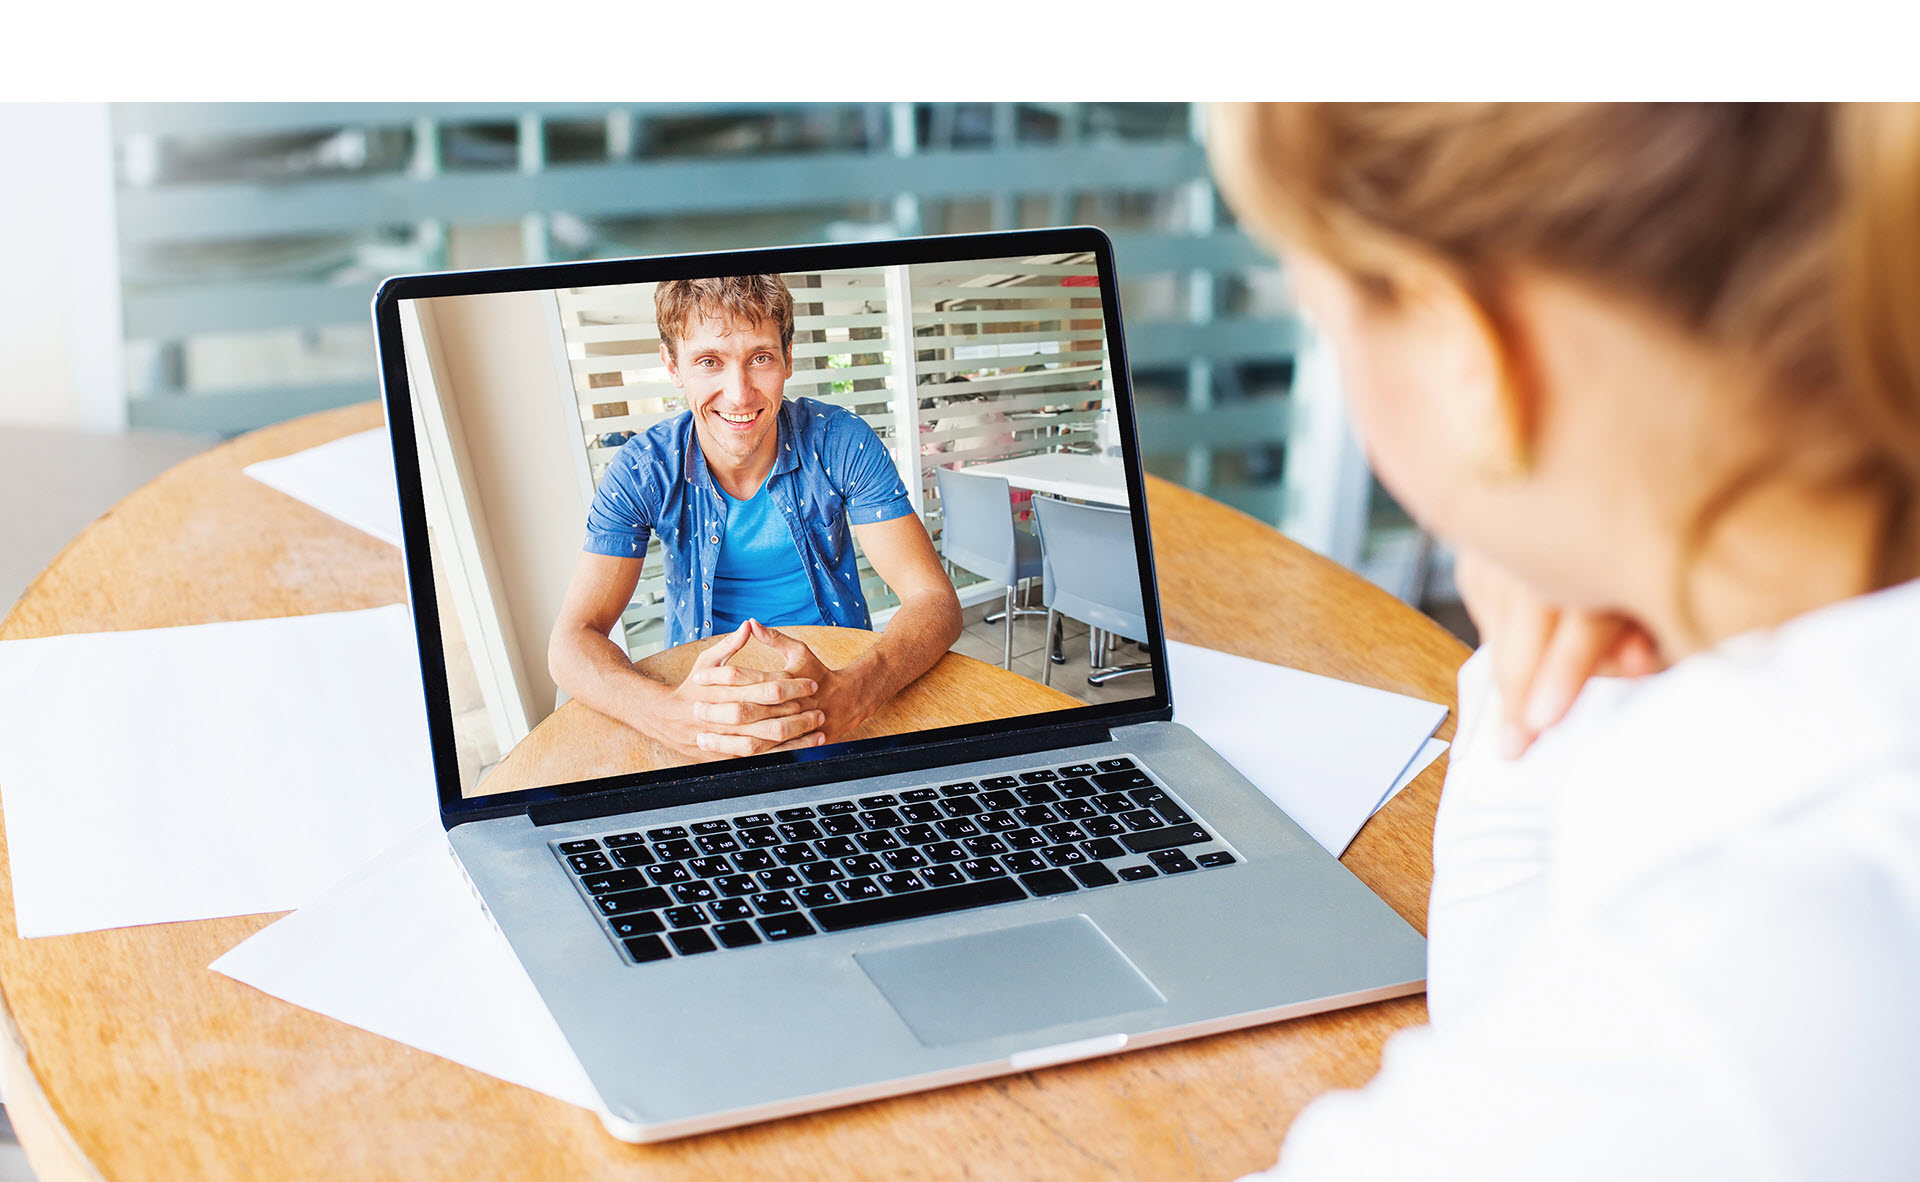
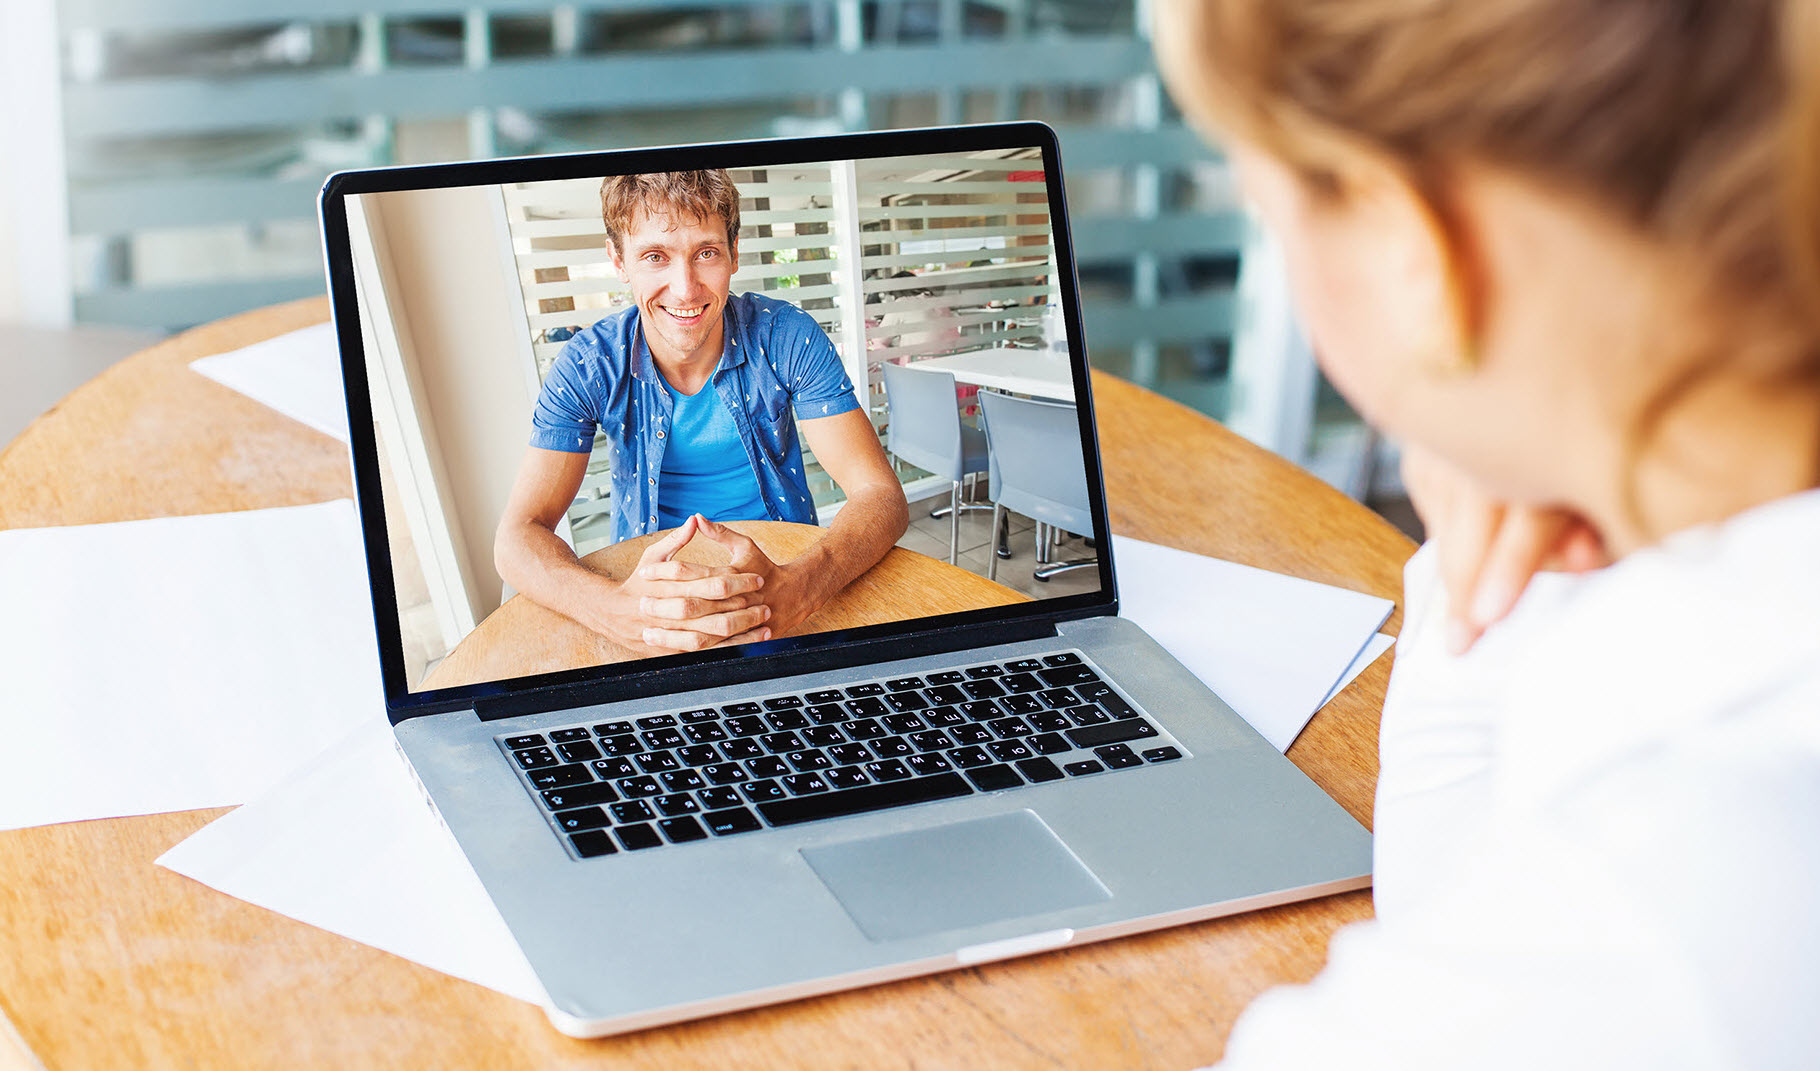
fixes

diff --git a/styles/index.scss b/styles/index.scss
@@ -6,6 +6,9 @@ body.ihelpyou {
 .ihelpyou {
     position: relative;
     height: 100%;
+    section:not(:first-child){
+        padding-top: 50px;
+    }
     header {
         .section-container {
             padding-top: 80px;
@@ -15,6 +18,9 @@ body.ihelpyou {
             margin-bottom: 0px;
             padding: 7px 0px;
             background-color: transparent;
+            &-toggle {
+                border-color: white;
+            }
         }
         .header {
             -webkit-transition: all 0.5s;
@@ -54,18 +60,12 @@ body.ihelpyou {
     }
     .containers {
         text-align: center;
-        section:not(first) {
-            padding-top: 50px;
-        }
         .container {
             &_banner {
                 .fill-screen-section {
                     @include background-cover('../../assets/home.jpg');
                     position: relative;
                     overflow: hidden;
-                    @media (max-width: 1634px) {
-                        margin-top: -60px;
-                    }
                     &:before {
                         content: ' ';
                         display: block;
@@ -102,7 +102,7 @@ body.ihelpyou {
                         bottom: 10%;
                         left: 50%;
                         text-align: center;
-                        transform: translate(-50%,-50%);
+                        transform: translate(-50%, -50%);
                         a {
                             color: white;
                         }

diff --git a/index.html b/index.html
@@ -15,7 +15,7 @@
             <div class="container-fluid">
                 <!-- Brand and toggle get grouped for better mobile display -->
                 <div class="navbar-header">
-                    <button type="button" class="navbar-toggle collapsed" data-toggle="collapse" data-target="#bs-example-navbar-collapse-1"
+                    <button type="button" class="navbar-toggle collapsed" data-toggle="collapse" data-target="#navbar-collapse-1"
                         aria-expanded="false">
                         <span class="sr-only">Toggle navigation</span>
                         <span class="icon-bar"></span>
@@ -25,7 +25,7 @@
                     <a class="navbar-brand" href="#header">iHelpYou</a>
                 </div>
 
-                <div class="collapse navbar-collapse">
+                <div class="collapse navbar-collapse" id="navbar-collapse-1">
                     <ul class="nav navbar-nav navbar-right">
                         <li>
                             <a href="#header">HOME</a>
@@ -57,7 +57,7 @@
                                 </div>
                             </div>
                             <div class="arrow-down">
-                                <a class="btn">
+                                <a class="btn" href="#why">
                                     <i class="fa fa-arrow-circle-down fa-4x"></i>
                                 </a>
                             </div>

diff --git a/dist/css/index.css b/dist/css/index.css
@@ -4,6 +4,8 @@ body.ihelpyou {
 .ihelpyou {
   position: relative;
   height: 100%; }
+  .ihelpyou section:not(:first-child) {
+    padding-top: 50px; }
   .ihelpyou header .section-container {
     padding-top: 80px;
     padding-bottom: 80px; }
@@ -11,6 +13,8 @@ body.ihelpyou {
     margin-bottom: 0px;
     padding: 7px 0px;
     background-color: transparent; }
+    .ihelpyou header .navbar-toggle {
+      border-color: white; }
   .ihelpyou header .header {
     -webkit-transition: all 0.5s;
     -moz-transition: all 0.5s;
@@ -38,17 +42,12 @@ body.ihelpyou {
         color: white; }
   .ihelpyou .containers {
     text-align: center; }
-    .ihelpyou .containers section:not(first) {
-      padding-top: 50px; }
     .ihelpyou .containers .container_banner .fill-screen-section {
       background-image: url("../../assets/home.jpg");
       background-size: cover;
       background-position: center;
       position: relative;
       overflow: hidden; }
-      @media (max-width: 1634px) {
-        .ihelpyou .containers .container_banner .fill-screen-section {
-          margin-top: -60px; } }
       .ihelpyou .containers .container_banner .fill-screen-section:before {
         content: ' ';
         display: block;

diff --git a/scripts/index.js b/scripts/index.js
@@ -20,17 +20,22 @@ var resizeHomeSection = (function () {
     });
 });
 
+var scrollspy = (function () {
+    $('.ihelpyou').scrollspy({
+        target: '.navbar'
+    });
+});
+
+var parallax = (function () {
+    $('.container_banner .fill-screen-section').parallaxie({
+        speed: 0.4
+    });
+});
+
 
 $(function () {
     animatedHeader();
     resizeHomeSection();
-
-    $('.ihelpyou').scrollspy({
-        target: '.navbar'
-    });
-
-    $('.container_banner .fill-screen-section').parallaxie({
-        speed: 0.4,
-        offset: -70,
-    });
+    scrollspy();
+    parallax();
 });

diff --git a/scripts/scrolling.js b/scripts/scrolling.js
@@ -2,7 +2,7 @@
     "use strict"; // Start of use strict
 
     // Smooth scrolling using jQuery easing
-    $('.navbar ul li a[href^="#"]').on('click', function (e) {
+    $('.navbar ul li a[href^="#"],.arrow-down a').on('click', function (e) {
 
         // prevent default anchor click behavior
         e.preventDefault();
